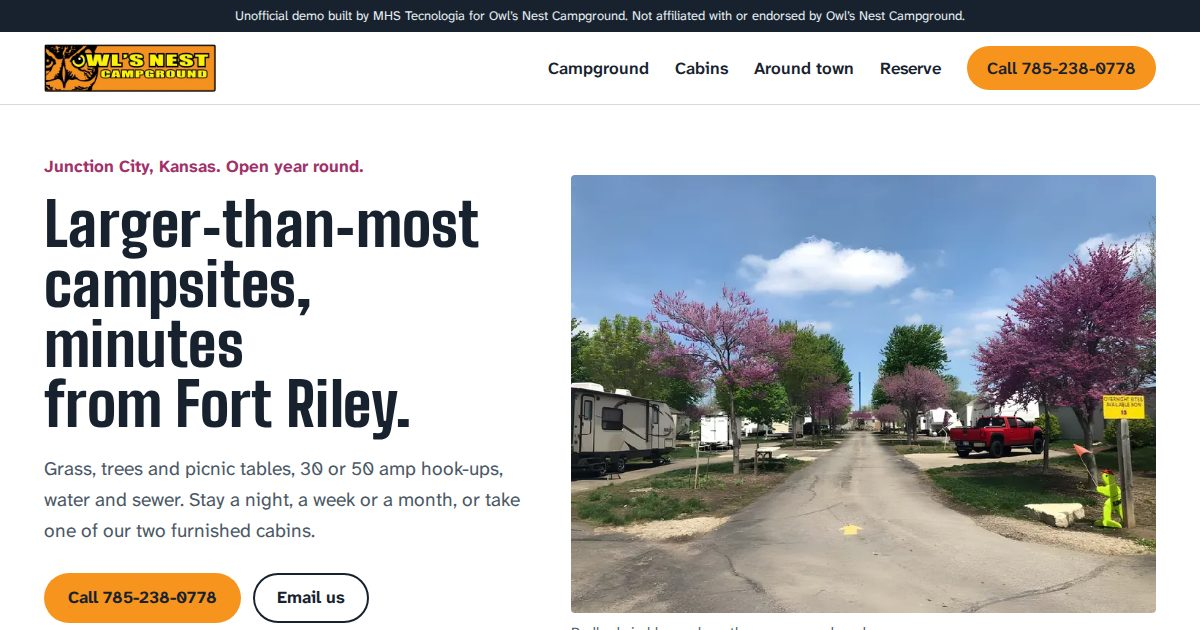
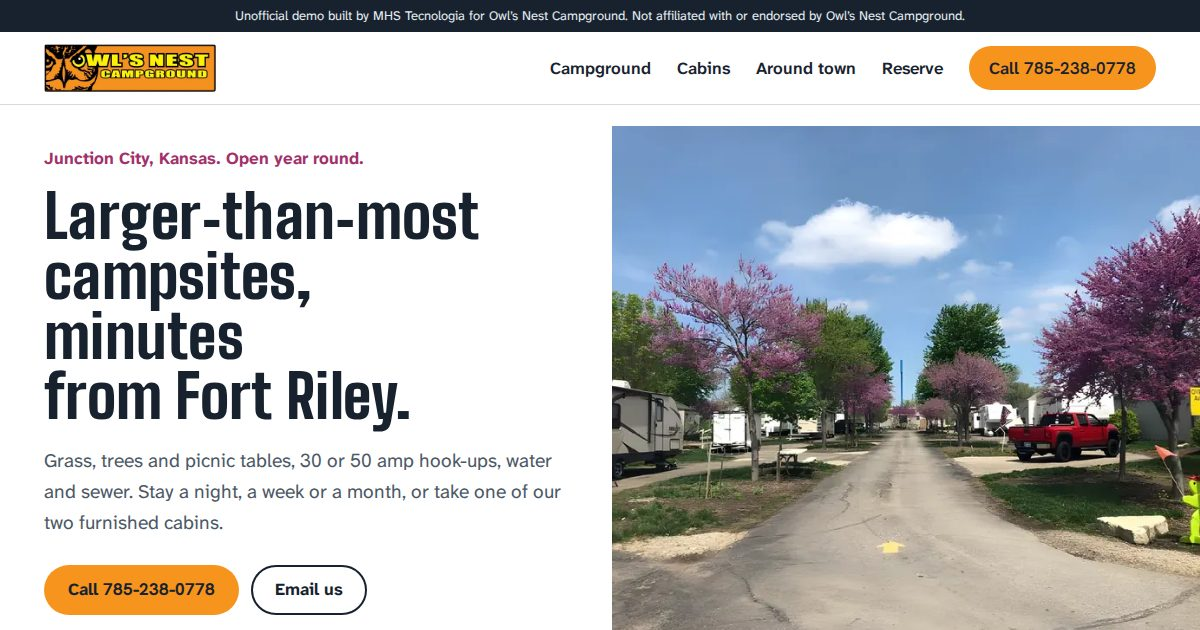
Previews: 172 ativos

diff --git a/owls-nest-campground-junction-city-ks/index.html b/owls-nest-campground-junction-city-ks/index.html
@@ -10,12 +10,13 @@
 <link rel="icon" href="favicon.png" type="image/png">
 <link rel="preload" href="fonts/bigshoulders.woff2" as="font" type="font/woff2" crossorigin>
 <link rel="preload" href="fonts/atkinson.woff2" as="font" type="font/woff2" crossorigin>
-<link rel="preload" as="image" href="img/lane-800.webp" imagesrcset="img/lane-800.webp 800w, img/lane-1000.webp 1000w, img/lane-1400.webp 1400w" imagesizes="(min-width:1160px) 600px, (min-width:861px) 54vw, calc(100vw - 48px)" fetchpriority="high">
+<link rel="preload" as="image" href="img/lane-800.webp" imagesrcset="img/lane-800.webp 800w, img/lane-1000.webp 1000w, img/lane-1400.webp 1400w" imagesizes="(min-width:1160px) max(calc(50vw - 12px), calc(100vh * 1.334 - 200px)), (min-width:861px) max(calc(100vw - 592px), 694px), calc(100vw - 48px)" fetchpriority="high">
 <style>
 @font-face{font-family:"Big Shoulders";src:url(fonts/bigshoulders.woff2) format("woff2");font-weight:600 900;font-display:swap}
+@font-face{font-family:Digits;src:url(fonts/hanken.woff2) format("woff2");font-weight:100 900;font-display:swap;unicode-range:U+0030-0039}
 @font-face{font-family:Atkinson;src:url(fonts/atkinson.woff2) format("woff2");font-weight:200 800;font-display:swap}
 :root{--night:#18222f;--asphalt:#3b4654;--owl:#f7941d;--owl-t:#a35300;--redbud:#a2306a;--sky:#eaf1f5;--paper:#fff;--ink:#18222f;--muted:#4c5866;--line:#d3dce3;
---disp:"Big Shoulders",Impact,sans-serif;--sans:Atkinson,system-ui,sans-serif;--w:1160px}
+--disp:"Big Shoulders",Impact,sans-serif;--sans:Digits,Atkinson,system-ui,sans-serif;--w:1160px}
 *{box-sizing:border-box}
 html{-webkit-text-size-adjust:100%;scroll-padding-top:16px}
 body{margin:0;background:var(--paper);color:var(--ink);font:400 1.0625rem/1.6 var(--sans)}
@@ -53,8 +54,11 @@ p{margin:0 0 1em;max-width:62ch}
 @media (max-width:860px){.nav>a{display:none}.menu{display:block}.brand img{width:140px}.bar{min-height:62px}}
 
 /* home hero */
-.hero{padding:48px 0 56px}
-.hero .wrap{display:grid;grid-template-columns:1fr 1.22fr;gap:48px;align-items:center}
+.hero{padding:0}
+.hero .wrap{display:grid;grid-template-columns:minmax(320px,520px) 1fr;gap:48px;align-items:center;max-width:none;padding:0 0 0 max(24px,calc((100vw - 1160px)/2 + 24px))}
+.hero .shot img{height:clamp(520px,calc(100vh - 150px),780px);object-fit:cover;border-radius:0}
+.hero .shot figcaption{padding:0 24px 0 0}
+.hero .wrap>div{padding:40px 0}
 .where{font-weight:700;color:var(--redbud);margin:0 0 14px}
 .hero h1{margin-bottom:20px}
 .hero .lede{margin-bottom:26px}
@@ -65,7 +69,9 @@ p{margin:0 0 1em;max-width:62ch}
 .shot figcaption{font-size:.875rem;color:var(--muted);margin-top:8px}
 @media (max-width:860px){
  .hero{padding:22px 0 36px}
- .hero .wrap{grid-template-columns:1fr;gap:22px}
+ .hero .wrap{grid-template-columns:1fr;gap:22px;padding:0 24px}
+ .hero .wrap>div{padding:0}
+ .hero .shot img{height:auto;border-radius:4px}
  .hero h1{font-size:2.45rem;margin-bottom:12px}
  .hero .lede{font-size:1.05rem;margin-bottom:16px}
  .where{margin-bottom:8px;font-size:.95rem}
@@ -79,8 +85,6 @@ p{margin:0 0 1em;max-width:62ch}
 .loop h2{color:#fff}
 .loop p{color:#cfd9e1}
 .loop .rule{font-family:var(--disp);font-weight:800;font-size:1.5rem;color:var(--owl);margin-bottom:.6em}
-.counter{display:flex;align-items:center;gap:18px;flex-wrap:wrap;margin-top:24px}
-.counter output{font-weight:700;color:#fff;font-size:1.1rem}
 .track{width:100%;height:auto}
 .track .note{fill:#9fb0bf;font:600 13px var(--sans)}
 @media (max-width:860px){.loop{padding:52px 0}.loop .wrap{grid-template-columns:1fr;gap:28px}}
@@ -160,8 +164,8 @@ p{margin:0 0 1em;max-width:62ch}
 <meta property="og:type" content="website">
 <meta property="og:title" content="Owl&rsquo;s Nest Campground, Junction City, Kansas">
 <meta property="og:description" content="RV campsites and two furnished cabins in Junction City, Kansas, minutes from Fort Riley. Open year round. Nightly, weekly and monthly stays.">
-<meta property="og:url" content="https://demo.mhstecnologia.com/owls-nest-campground-junction-city-ks/">
-<meta property="og:image" content="https://demo.mhstecnologia.com/owls-nest-campground-junction-city-ks/og.jpg">
+<meta property="og:url" content="https://previa.mhstecnologia.com/owls-nest-campground-junction-city-ks/">
+<meta property="og:image" content="https://previa.mhstecnologia.com/owls-nest-campground-junction-city-ks/og.jpg">
 <meta property="og:image:width" content="1200">
 <meta property="og:image:height" content="630">
 </head>
@@ -185,8 +189,8 @@ p{margin:0 0 1em;max-width:62ch}
 <p class="hours">Office Monday to Friday, 8:30 to 5. After hours, see our camp host.</p>
 </div>
 <figure class="shot">
-<img src="img/lane-800.webp" srcset="img/lane-800.webp 800w, img/lane-1000.webp 1000w, img/lane-1400.webp 1400w" sizes="(min-width:1160px) 600px, (min-width:861px) 54vw, calc(100vw - 48px)" width="1400" height="1050" alt="Redbud trees in bloom along the campground road, with RVs parked at the sites" fetchpriority="high">
-<figcaption>Redbuds in bloom along the campground road.</figcaption>
+<img src="img/lane-800.webp" srcset="img/lane-800.webp 800w, img/lane-1000.webp 1000w, img/lane-1400.webp 1400w" sizes="(min-width:1160px) max(calc(50vw - 12px), calc(100vh * 1.334 - 200px)), (min-width:861px) max(calc(100vw - 592px), 694px), calc(100vw - 48px)" width="1400" height="1050" alt="Redbud trees in bloom along the campground road, with RVs parked at the sites" fetchpriority="high">
+<figcaption>The campground road in spring.</figcaption>
 </figure>
 </div>
 </section>
@@ -198,11 +202,10 @@ p{margin:0 0 1em;max-width:62ch}
 <p class="rule">Drive slow. One way road.</p>
 <p>Our entrance road runs one way, counter-clockwise, around the campsites. Back-in sites are angled off that direction, so it is easier to swing your camper onto the site.</p>
 <p>Out for a walk? Six laps around our campsites on the access road equals one mile.</p>
-<div class="counter"><button class="btn btn-owl" type="button" id="lapbtn">Walk a lap</button><output id="laps" aria-live="polite">0 laps so far</output></div>
 </div>
 <svg class="track" viewBox="0 0 600 360" role="img" aria-labelledby="trk-t">
 <title id="trk-t">Drawing of the one-way access road looping counter-clockwise around the campsites</title>
-<g fill="#a2306a" opacity=".9"><circle cx="196" cy="182" r="9"/><circle cx="286" cy="182" r="9"/><circle cx="376" cy="182" r="9"/><circle cx="34" cy="40" r="13"/><circle cx="566" cy="40" r="11"/><circle cx="566" cy="318" r="13"/><circle cx="34" cy="318" r="11"/></g>
+<g fill="#a2306a" opacity=".9"><circle cx="196" cy="182" r="9"/><circle cx="286" cy="182" r="9"/><circle cx="376" cy="182" r="9"/></g>
 <g fill="#5e6f80">
 <rect x="130" y="128" width="14" height="30" rx="3" transform="rotate(-30 137 143)"/><rect x="175" y="128" width="14" height="30" rx="3" transform="rotate(-30 182 143)"/><rect x="220" y="128" width="14" height="30" rx="3" transform="rotate(-30 227 143)"/><rect x="265" y="128" width="14" height="30" rx="3" transform="rotate(-30 272 143)"/><rect x="310" y="128" width="14" height="30" rx="3" transform="rotate(-30 317 143)"/><rect x="355" y="128" width="14" height="30" rx="3" transform="rotate(-30 362 143)"/><rect x="400" y="128" width="14" height="30" rx="3" transform="rotate(-30 407 143)"/>
 <rect x="160" y="205" width="14" height="30" rx="3" transform="rotate(30 167 220)"/><rect x="205" y="205" width="14" height="30" rx="3" transform="rotate(30 212 220)"/><rect x="250" y="205" width="14" height="30" rx="3" transform="rotate(30 257 220)"/><rect x="295" y="205" width="14" height="30" rx="3" transform="rotate(30 302 220)"/><rect x="340" y="205" width="14" height="30" rx="3" transform="rotate(30 347 220)"/><rect x="385" y="205" width="14" height="30" rx="3" transform="rotate(30 392 220)"/><rect x="430" y="205" width="14" height="30" rx="3" transform="rotate(30 437 220)"/>
@@ -294,15 +297,13 @@ p{margin:0 0 1em;max-width:62ch}
 </div>
 </section>
 <script>
-(function(){var p=document.getElementById('road'),d=document.getElementById('you'),btn=document.getElementById('lapbtn'),out=document.getElementById('laps');
-if(!p||!d)return;var L=p.getTotalLength(),still=matchMedia('(prefers-reduced-motion: reduce)').matches,busy=false,n=0;
-var words=['','1/6 of a mile','1/3 of a mile','half a mile','2/3 of a mile','5/6 of a mile','one mile'];
+(function(){var p=document.getElementById('road'),d=document.getElementById('you');
+if(!p||!d)return;var L=p.getTotalLength(),still=matchMedia('(prefers-reduced-motion: reduce)').matches,busy=false;
 function put(t){var q=p.getPointAtLength((t%1)*L);d.setAttribute('cx',q.x);d.setAttribute('cy',q.y)}
 function lap(ms,done){if(still||busy){done&&done();return}busy=true;var s=null;
 function f(ts){if(s===null)s=ts;var k=Math.min(1,(ts-s)/ms);k=k<.5?2*k*k:1-Math.pow(-2*k+2,2)/2;put(k);if(k<1)requestAnimationFrame(f);else{busy=false;put(0);done&&done()}}
 requestAnimationFrame(f)}
 if('IntersectionObserver'in window){var io=new IntersectionObserver(function(e){if(e[0].isIntersecting){io.disconnect();lap(3600)}},{threshold:.5});io.observe(p.ownerSVGElement)}
-btn.addEventListener('click',function(){if(busy)return;lap(2200,function(){n=n>=6?1:n+1;out.textContent=n+(n===1?' lap':' laps')+' = '+words[n]+(n===6?'. Done.':'')})});
 })();
 </script>
 </main>

diff --git a/owls-nest-campground-junction-city-ks/campground.html b/owls-nest-campground-junction-city-ks/campground.html
@@ -12,9 +12,10 @@
 <link rel="preload" href="fonts/atkinson.woff2" as="font" type="font/woff2" crossorigin>
 <style>
 @font-face{font-family:"Big Shoulders";src:url(fonts/bigshoulders.woff2) format("woff2");font-weight:600 900;font-display:swap}
+@font-face{font-family:Digits;src:url(fonts/hanken.woff2) format("woff2");font-weight:100 900;font-display:swap;unicode-range:U+0030-0039}
 @font-face{font-family:Atkinson;src:url(fonts/atkinson.woff2) format("woff2");font-weight:200 800;font-display:swap}
 :root{--night:#18222f;--asphalt:#3b4654;--owl:#f7941d;--owl-t:#a35300;--redbud:#a2306a;--sky:#eaf1f5;--paper:#fff;--ink:#18222f;--muted:#4c5866;--line:#d3dce3;
---disp:"Big Shoulders",Impact,sans-serif;--sans:Atkinson,system-ui,sans-serif;--w:1160px}
+--disp:"Big Shoulders",Impact,sans-serif;--sans:Digits,Atkinson,system-ui,sans-serif;--w:1160px}
 *{box-sizing:border-box}
 html{-webkit-text-size-adjust:100%;scroll-padding-top:16px}
 body{margin:0;background:var(--paper);color:var(--ink);font:400 1.0625rem/1.6 var(--sans)}
@@ -52,8 +53,11 @@ p{margin:0 0 1em;max-width:62ch}
 @media (max-width:860px){.nav>a{display:none}.menu{display:block}.brand img{width:140px}.bar{min-height:62px}}
 
 /* home hero */
-.hero{padding:48px 0 56px}
-.hero .wrap{display:grid;grid-template-columns:1fr 1.22fr;gap:48px;align-items:center}
+.hero{padding:0}
+.hero .wrap{display:grid;grid-template-columns:minmax(320px,520px) 1fr;gap:48px;align-items:center;max-width:none;padding:0 0 0 max(24px,calc((100vw - 1160px)/2 + 24px))}
+.hero .shot img{height:clamp(520px,calc(100vh - 150px),780px);object-fit:cover;border-radius:0}
+.hero .shot figcaption{padding:0 24px 0 0}
+.hero .wrap>div{padding:40px 0}
 .where{font-weight:700;color:var(--redbud);margin:0 0 14px}
 .hero h1{margin-bottom:20px}
 .hero .lede{margin-bottom:26px}
@@ -64,7 +68,9 @@ p{margin:0 0 1em;max-width:62ch}
 .shot figcaption{font-size:.875rem;color:var(--muted);margin-top:8px}
 @media (max-width:860px){
  .hero{padding:22px 0 36px}
- .hero .wrap{grid-template-columns:1fr;gap:22px}
+ .hero .wrap{grid-template-columns:1fr;gap:22px;padding:0 24px}
+ .hero .wrap>div{padding:0}
+ .hero .shot img{height:auto;border-radius:4px}
  .hero h1{font-size:2.45rem;margin-bottom:12px}
  .hero .lede{font-size:1.05rem;margin-bottom:16px}
  .where{margin-bottom:8px;font-size:.95rem}
@@ -78,8 +84,6 @@ p{margin:0 0 1em;max-width:62ch}
 .loop h2{color:#fff}
 .loop p{color:#cfd9e1}
 .loop .rule{font-family:var(--disp);font-weight:800;font-size:1.5rem;color:var(--owl);margin-bottom:.6em}
-.counter{display:flex;align-items:center;gap:18px;flex-wrap:wrap;margin-top:24px}
-.counter output{font-weight:700;color:#fff;font-size:1.1rem}
 .track{width:100%;height:auto}
 .track .note{fill:#9fb0bf;font:600 13px var(--sans)}
 @media (max-width:860px){.loop{padding:52px 0}.loop .wrap{grid-template-columns:1fr;gap:28px}}
@@ -216,21 +220,24 @@ p{margin:0 0 1em;max-width:62ch}
 <section class="band" aria-labelledby="ru-h">
 <div class="wrap">
 <h2 id="ru-h">Good to know before you pull in</h2>
-<details class="more"><summary>Read the campground rules</summary>
 <div class="split">
 <ul class="facts">
 <li>Drive slow. The road is one way, counter-clockwise.</li>
-<li>Depending on the size of your rig, you may drive on the grass to set up. Please keep damage to the grass, trees and utilities to a minimum. We will help you get settled.</li>
 <li>Please don&rsquo;t park on the grass. Extra parking is by the office and the campground entrance.</li>
 <li>Put boards under leveling and stabilizing jacks to protect the asphalt. There is a box of boards on the north side of the office.</li>
 </ul>
 <ul class="facts">
 <li>Check-out is 2:00 p.m. for campers and 12:00 p.m. for cabins. Need longer? Ask the office before check-out time.</li>
-<li>Long-term stays: skirting is allowed and encouraged for winter camping, once staff approve it. Decks, steps or other construction need approval too.</li>
-<li>Check with the office before placing extra items at your site for long periods. No mats, tarps or ground cloths over the grass for more than 24 hours.</li>
-<li>Pets on a leash, cleaned up after right away, and never staked to campground trees. Portable pens need approval. Vicious or dangerous dogs are not allowed.</li>
+<li>Pets on a leash, cleaned up after right away, and never staked to campground trees.</li>
 </ul>
 </div>
+<details class="more" style="margin-top:28px"><summary>More campground rules</summary>
+<ul class="facts">
+<li>Depending on the size of your rig, you may drive on the grass to set up. Please keep damage to the grass, trees and utilities to a minimum. We will help you get settled.</li>
+<li>Long-term stays: skirting is allowed and encouraged for winter camping, once staff approve it. Decks, steps or other construction need approval too.</li>
+<li>Check with the office before placing extra items at your site for long periods. No mats, tarps or ground cloths over the grass for more than 24 hours.</li>
+<li>Portable pet pens need approval. Vicious or dangerous dogs are not allowed.</li>
+</ul>
 </details>
 </div>
 </section>

diff --git a/owls-nest-campground-junction-city-ks/area.html b/owls-nest-campground-junction-city-ks/area.html
@@ -12,9 +12,10 @@
 <link rel="preload" href="fonts/atkinson.woff2" as="font" type="font/woff2" crossorigin>
 <style>
 @font-face{font-family:"Big Shoulders";src:url(fonts/bigshoulders.woff2) format("woff2");font-weight:600 900;font-display:swap}
+@font-face{font-family:Digits;src:url(fonts/hanken.woff2) format("woff2");font-weight:100 900;font-display:swap;unicode-range:U+0030-0039}
 @font-face{font-family:Atkinson;src:url(fonts/atkinson.woff2) format("woff2");font-weight:200 800;font-display:swap}
 :root{--night:#18222f;--asphalt:#3b4654;--owl:#f7941d;--owl-t:#a35300;--redbud:#a2306a;--sky:#eaf1f5;--paper:#fff;--ink:#18222f;--muted:#4c5866;--line:#d3dce3;
---disp:"Big Shoulders",Impact,sans-serif;--sans:Atkinson,system-ui,sans-serif;--w:1160px}
+--disp:"Big Shoulders",Impact,sans-serif;--sans:Digits,Atkinson,system-ui,sans-serif;--w:1160px}
 *{box-sizing:border-box}
 html{-webkit-text-size-adjust:100%;scroll-padding-top:16px}
 body{margin:0;background:var(--paper);color:var(--ink);font:400 1.0625rem/1.6 var(--sans)}
@@ -52,8 +53,11 @@ p{margin:0 0 1em;max-width:62ch}
 @media (max-width:860px){.nav>a{display:none}.menu{display:block}.brand img{width:140px}.bar{min-height:62px}}
 
 /* home hero */
-.hero{padding:48px 0 56px}
-.hero .wrap{display:grid;grid-template-columns:1fr 1.22fr;gap:48px;align-items:center}
+.hero{padding:0}
+.hero .wrap{display:grid;grid-template-columns:minmax(320px,520px) 1fr;gap:48px;align-items:center;max-width:none;padding:0 0 0 max(24px,calc((100vw - 1160px)/2 + 24px))}
+.hero .shot img{height:clamp(520px,calc(100vh - 150px),780px);object-fit:cover;border-radius:0}
+.hero .shot figcaption{padding:0 24px 0 0}
+.hero .wrap>div{padding:40px 0}
 .where{font-weight:700;color:var(--redbud);margin:0 0 14px}
 .hero h1{margin-bottom:20px}
 .hero .lede{margin-bottom:26px}
@@ -64,7 +68,9 @@ p{margin:0 0 1em;max-width:62ch}
 .shot figcaption{font-size:.875rem;color:var(--muted);margin-top:8px}
 @media (max-width:860px){
  .hero{padding:22px 0 36px}
- .hero .wrap{grid-template-columns:1fr;gap:22px}
+ .hero .wrap{grid-template-columns:1fr;gap:22px;padding:0 24px}
+ .hero .wrap>div{padding:0}
+ .hero .shot img{height:auto;border-radius:4px}
  .hero h1{font-size:2.45rem;margin-bottom:12px}
  .hero .lede{font-size:1.05rem;margin-bottom:16px}
  .where{margin-bottom:8px;font-size:.95rem}
@@ -78,8 +84,6 @@ p{margin:0 0 1em;max-width:62ch}
 .loop h2{color:#fff}
 .loop p{color:#cfd9e1}
 .loop .rule{font-family:var(--disp);font-weight:800;font-size:1.5rem;color:var(--owl);margin-bottom:.6em}
-.counter{display:flex;align-items:center;gap:18px;flex-wrap:wrap;margin-top:24px}
-.counter output{font-weight:700;color:#fff;font-size:1.1rem}
 .track{width:100%;height:auto}
 .track .note{fill:#9fb0bf;font:600 13px var(--sans)}
 @media (max-width:860px){.loop{padding:52px 0}.loop .wrap{grid-template-columns:1fr;gap:28px}}

diff --git a/owls-nest-campground-junction-city-ks/cabins.html b/owls-nest-campground-junction-city-ks/cabins.html
@@ -12,9 +12,10 @@
 <link rel="preload" href="fonts/atkinson.woff2" as="font" type="font/woff2" crossorigin>
 <style>
 @font-face{font-family:"Big Shoulders";src:url(fonts/bigshoulders.woff2) format("woff2");font-weight:600 900;font-display:swap}
+@font-face{font-family:Digits;src:url(fonts/hanken.woff2) format("woff2");font-weight:100 900;font-display:swap;unicode-range:U+0030-0039}
 @font-face{font-family:Atkinson;src:url(fonts/atkinson.woff2) format("woff2");font-weight:200 800;font-display:swap}
 :root{--night:#18222f;--asphalt:#3b4654;--owl:#f7941d;--owl-t:#a35300;--redbud:#a2306a;--sky:#eaf1f5;--paper:#fff;--ink:#18222f;--muted:#4c5866;--line:#d3dce3;
---disp:"Big Shoulders",Impact,sans-serif;--sans:Atkinson,system-ui,sans-serif;--w:1160px}
+--disp:"Big Shoulders",Impact,sans-serif;--sans:Digits,Atkinson,system-ui,sans-serif;--w:1160px}
 *{box-sizing:border-box}
 html{-webkit-text-size-adjust:100%;scroll-padding-top:16px}
 body{margin:0;background:var(--paper);color:var(--ink);font:400 1.0625rem/1.6 var(--sans)}
@@ -52,8 +53,11 @@ p{margin:0 0 1em;max-width:62ch}
 @media (max-width:860px){.nav>a{display:none}.menu{display:block}.brand img{width:140px}.bar{min-height:62px}}
 
 /* home hero */
-.hero{padding:48px 0 56px}
-.hero .wrap{display:grid;grid-template-columns:1fr 1.22fr;gap:48px;align-items:center}
+.hero{padding:0}
+.hero .wrap{display:grid;grid-template-columns:minmax(320px,520px) 1fr;gap:48px;align-items:center;max-width:none;padding:0 0 0 max(24px,calc((100vw - 1160px)/2 + 24px))}
+.hero .shot img{height:clamp(520px,calc(100vh - 150px),780px);object-fit:cover;border-radius:0}
+.hero .shot figcaption{padding:0 24px 0 0}
+.hero .wrap>div{padding:40px 0}
 .where{font-weight:700;color:var(--redbud);margin:0 0 14px}
 .hero h1{margin-bottom:20px}
 .hero .lede{margin-bottom:26px}
@@ -64,7 +68,9 @@ p{margin:0 0 1em;max-width:62ch}
 .shot figcaption{font-size:.875rem;color:var(--muted);margin-top:8px}
 @media (max-width:860px){
  .hero{padding:22px 0 36px}
- .hero .wrap{grid-template-columns:1fr;gap:22px}
+ .hero .wrap{grid-template-columns:1fr;gap:22px;padding:0 24px}
+ .hero .wrap>div{padding:0}
+ .hero .shot img{height:auto;border-radius:4px}
  .hero h1{font-size:2.45rem;margin-bottom:12px}
  .hero .lede{font-size:1.05rem;margin-bottom:16px}
  .where{margin-bottom:8px;font-size:.95rem}
@@ -78,8 +84,6 @@ p{margin:0 0 1em;max-width:62ch}
 .loop h2{color:#fff}
 .loop p{color:#cfd9e1}
 .loop .rule{font-family:var(--disp);font-weight:800;font-size:1.5rem;color:var(--owl);margin-bottom:.6em}
-.counter{display:flex;align-items:center;gap:18px;flex-wrap:wrap;margin-top:24px}
-.counter output{font-weight:700;color:#fff;font-size:1.1rem}
 .track{width:100%;height:auto}
 .track .note{fill:#9fb0bf;font:600 13px var(--sans)}
 @media (max-width:860px){.loop{padding:52px 0}.loop .wrap{grid-template-columns:1fr;gap:28px}}

diff --git a/owls-nest-campground-junction-city-ks/contact.html b/owls-nest-campground-junction-city-ks/contact.html
@@ -12,9 +12,10 @@
 <link rel="preload" href="fonts/atkinson.woff2" as="font" type="font/woff2" crossorigin>
 <style>
 @font-face{font-family:"Big Shoulders";src:url(fonts/bigshoulders.woff2) format("woff2");font-weight:600 900;font-display:swap}
+@font-face{font-family:Digits;src:url(fonts/hanken.woff2) format("woff2");font-weight:100 900;font-display:swap;unicode-range:U+0030-0039}
 @font-face{font-family:Atkinson;src:url(fonts/atkinson.woff2) format("woff2");font-weight:200 800;font-display:swap}
 :root{--night:#18222f;--asphalt:#3b4654;--owl:#f7941d;--owl-t:#a35300;--redbud:#a2306a;--sky:#eaf1f5;--paper:#fff;--ink:#18222f;--muted:#4c5866;--line:#d3dce3;
---disp:"Big Shoulders",Impact,sans-serif;--sans:Atkinson,system-ui,sans-serif;--w:1160px}
+--disp:"Big Shoulders",Impact,sans-serif;--sans:Digits,Atkinson,system-ui,sans-serif;--w:1160px}
 *{box-sizing:border-box}
 html{-webkit-text-size-adjust:100%;scroll-padding-top:16px}
 body{margin:0;background:var(--paper);color:var(--ink);font:400 1.0625rem/1.6 var(--sans)}
@@ -52,8 +53,11 @@ p{margin:0 0 1em;max-width:62ch}
 @media (max-width:860px){.nav>a{display:none}.menu{display:block}.brand img{width:140px}.bar{min-height:62px}}
 
 /* home hero */
-.hero{padding:48px 0 56px}
-.hero .wrap{display:grid;grid-template-columns:1fr 1.22fr;gap:48px;align-items:center}
+.hero{padding:0}
+.hero .wrap{display:grid;grid-template-columns:minmax(320px,520px) 1fr;gap:48px;align-items:center;max-width:none;padding:0 0 0 max(24px,calc((100vw - 1160px)/2 + 24px))}
+.hero .shot img{height:clamp(520px,calc(100vh - 150px),780px);object-fit:cover;border-radius:0}
+.hero .shot figcaption{padding:0 24px 0 0}
+.hero .wrap>div{padding:40px 0}
 .where{font-weight:700;color:var(--redbud);margin:0 0 14px}
 .hero h1{margin-bottom:20px}
 .hero .lede{margin-bottom:26px}
@@ -64,7 +68,9 @@ p{margin:0 0 1em;max-width:62ch}
 .shot figcaption{font-size:.875rem;color:var(--muted);margin-top:8px}
 @media (max-width:860px){
  .hero{padding:22px 0 36px}
- .hero .wrap{grid-template-columns:1fr;gap:22px}
+ .hero .wrap{grid-template-columns:1fr;gap:22px;padding:0 24px}
+ .hero .wrap>div{padding:0}
+ .hero .shot img{height:auto;border-radius:4px}
  .hero h1{font-size:2.45rem;margin-bottom:12px}
  .hero .lede{font-size:1.05rem;margin-bottom:16px}
  .where{margin-bottom:8px;font-size:.95rem}
@@ -78,8 +84,6 @@ p{margin:0 0 1em;max-width:62ch}
 .loop h2{color:#fff}
 .loop p{color:#cfd9e1}
 .loop .rule{font-family:var(--disp);font-weight:800;font-size:1.5rem;color:var(--owl);margin-bottom:.6em}
-.counter{display:flex;align-items:center;gap:18px;flex-wrap:wrap;margin-top:24px}
-.counter output{font-weight:700;color:#fff;font-size:1.1rem}
 .track{width:100%;height:auto}
 .track .note{fill:#9fb0bf;font:600 13px var(--sans)}
 @media (max-width:860px){.loop{padding:52px 0}.loop .wrap{grid-template-columns:1fr;gap:28px}}
